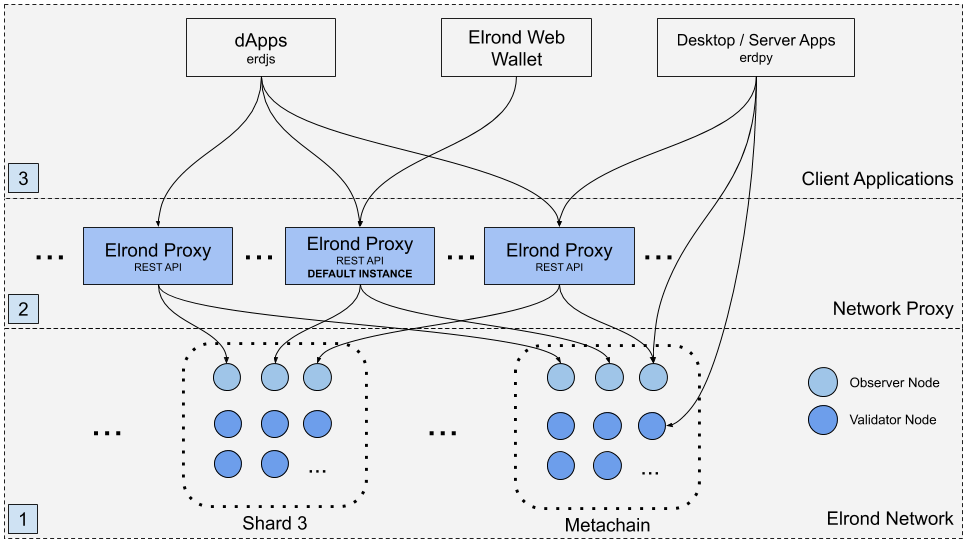
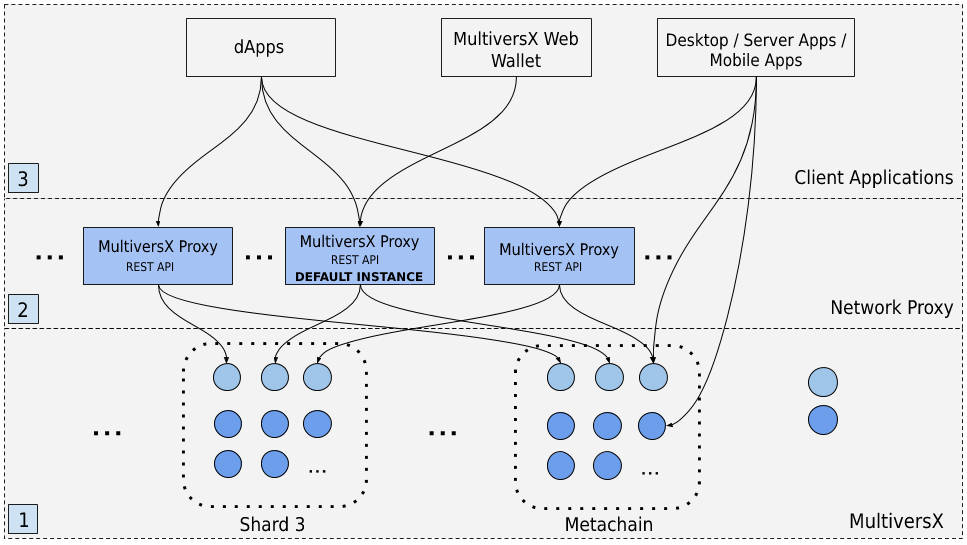
fix readme

diff --git a/README.md b/README.md
@@ -1,10 +1,10 @@
-# elrond-proxy
+# mx-chain-proxy-go
 
-The **Elrond Proxy** acts as an entry point into the Elrond Network. 
+The **MultiversX Proxy** acts as an entry point into the MultiversX Network. 
 
-![Elrond Proxy - Architectural Overview](assets/overview.png "Elrond Proxy - Architectural Overview")
+![MultiversX Proxy - Architectural Overview](assets/overview.png "MultiversX Proxy - Architectural Overview")
 
-For more details, go to [docs.elrond.com](https://docs.elrond.com/sdk-and-tools/proxy/).
+For more details, go to [docs.multiversx.com](https://docs.multiversx.com/sdk-and-tools/proxy/).
 
 ## Rest API endpoints
 
